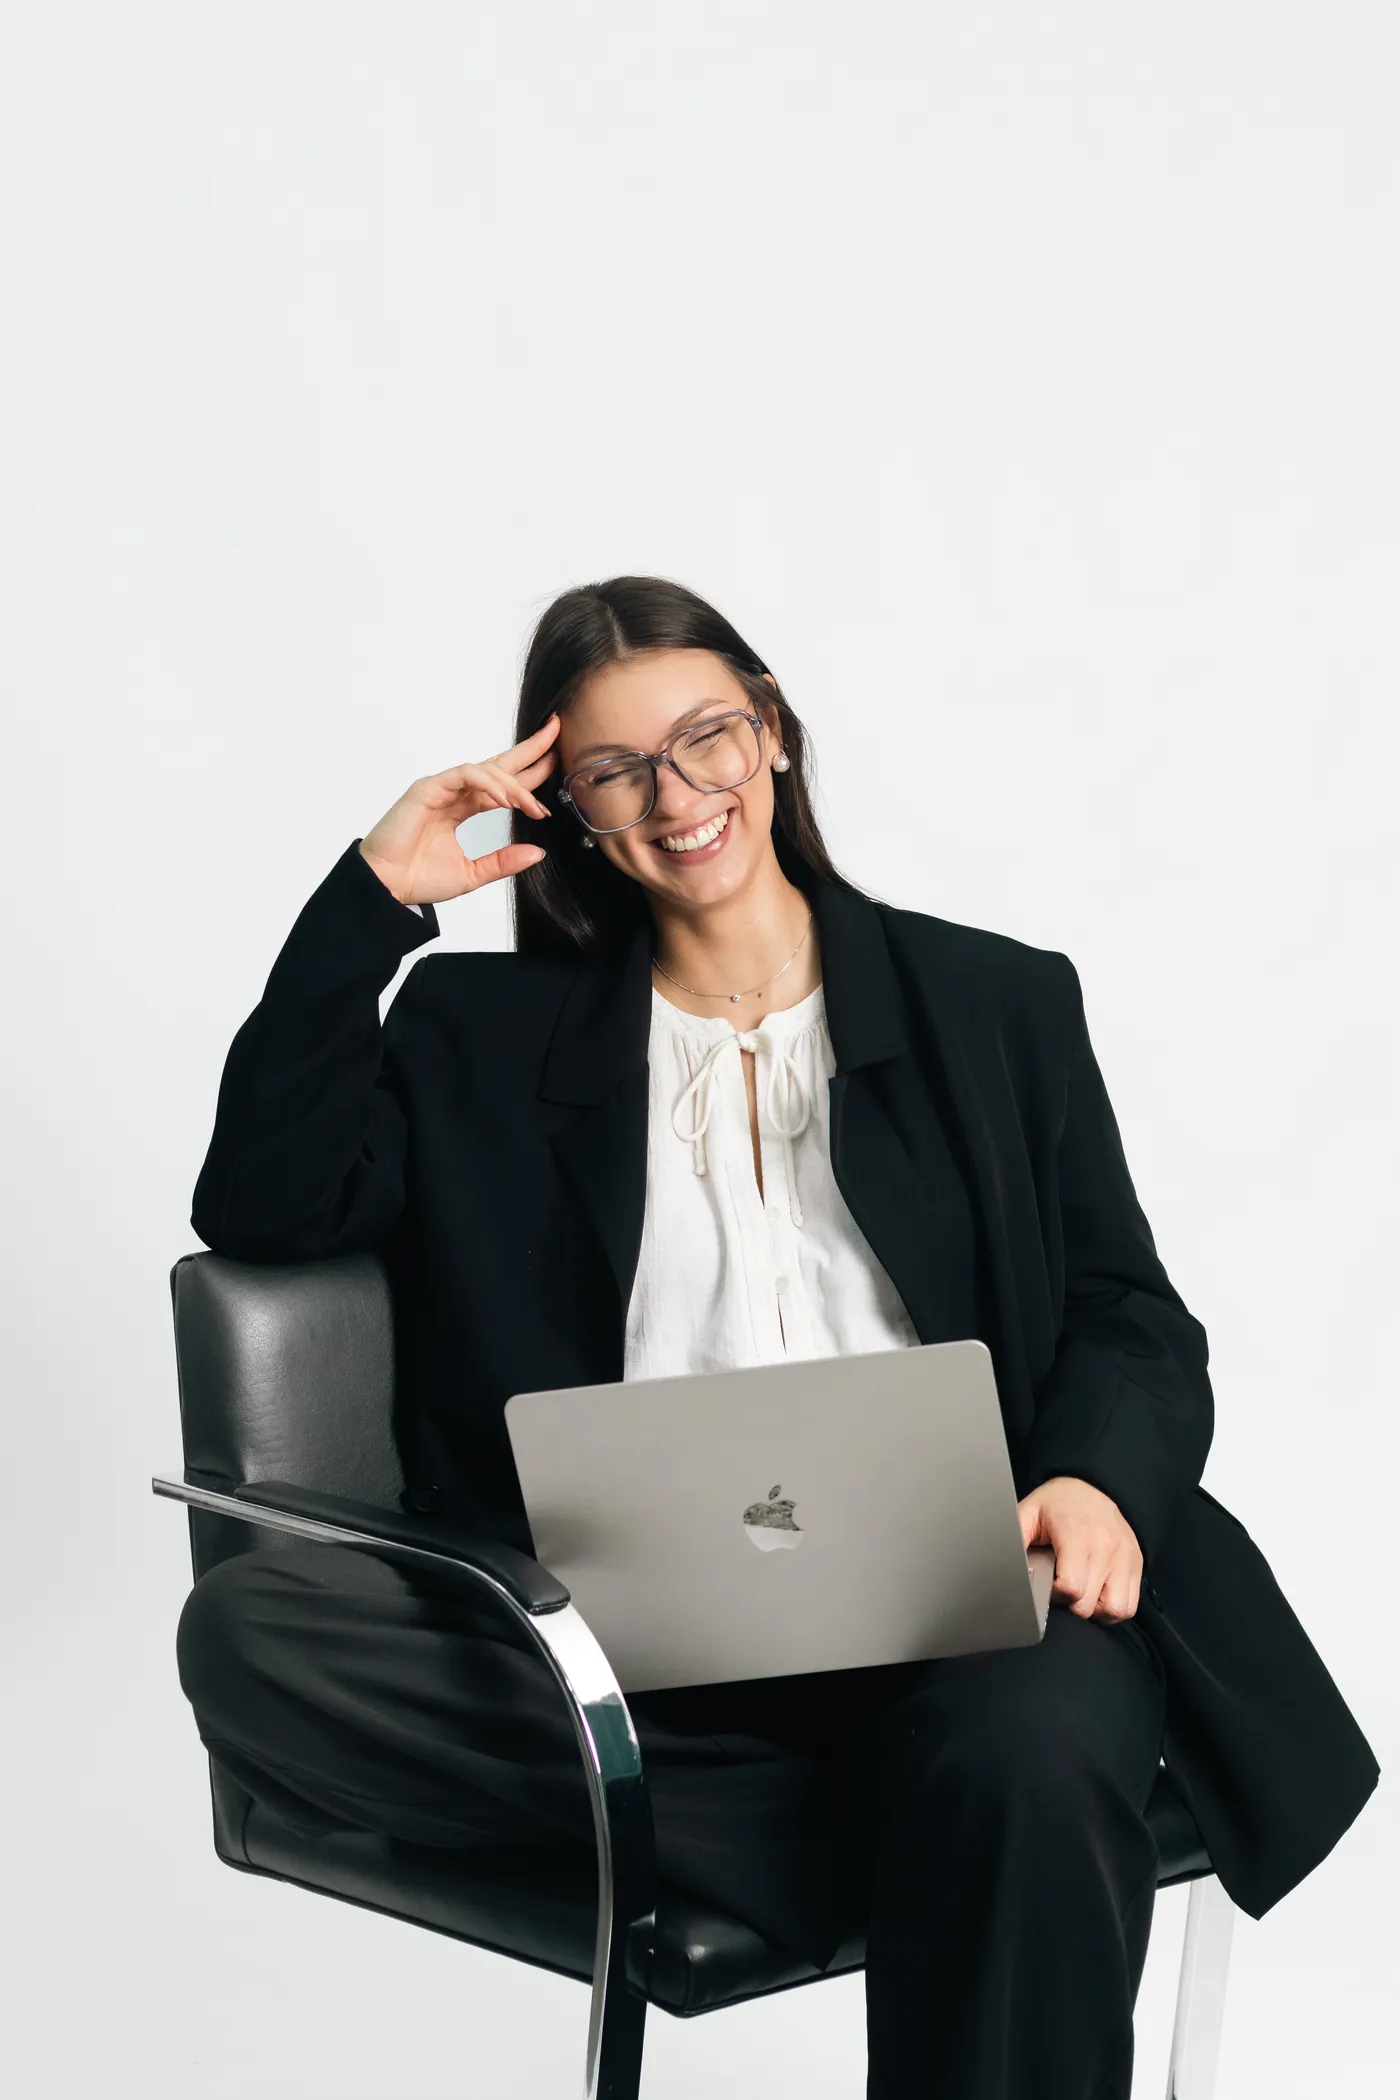
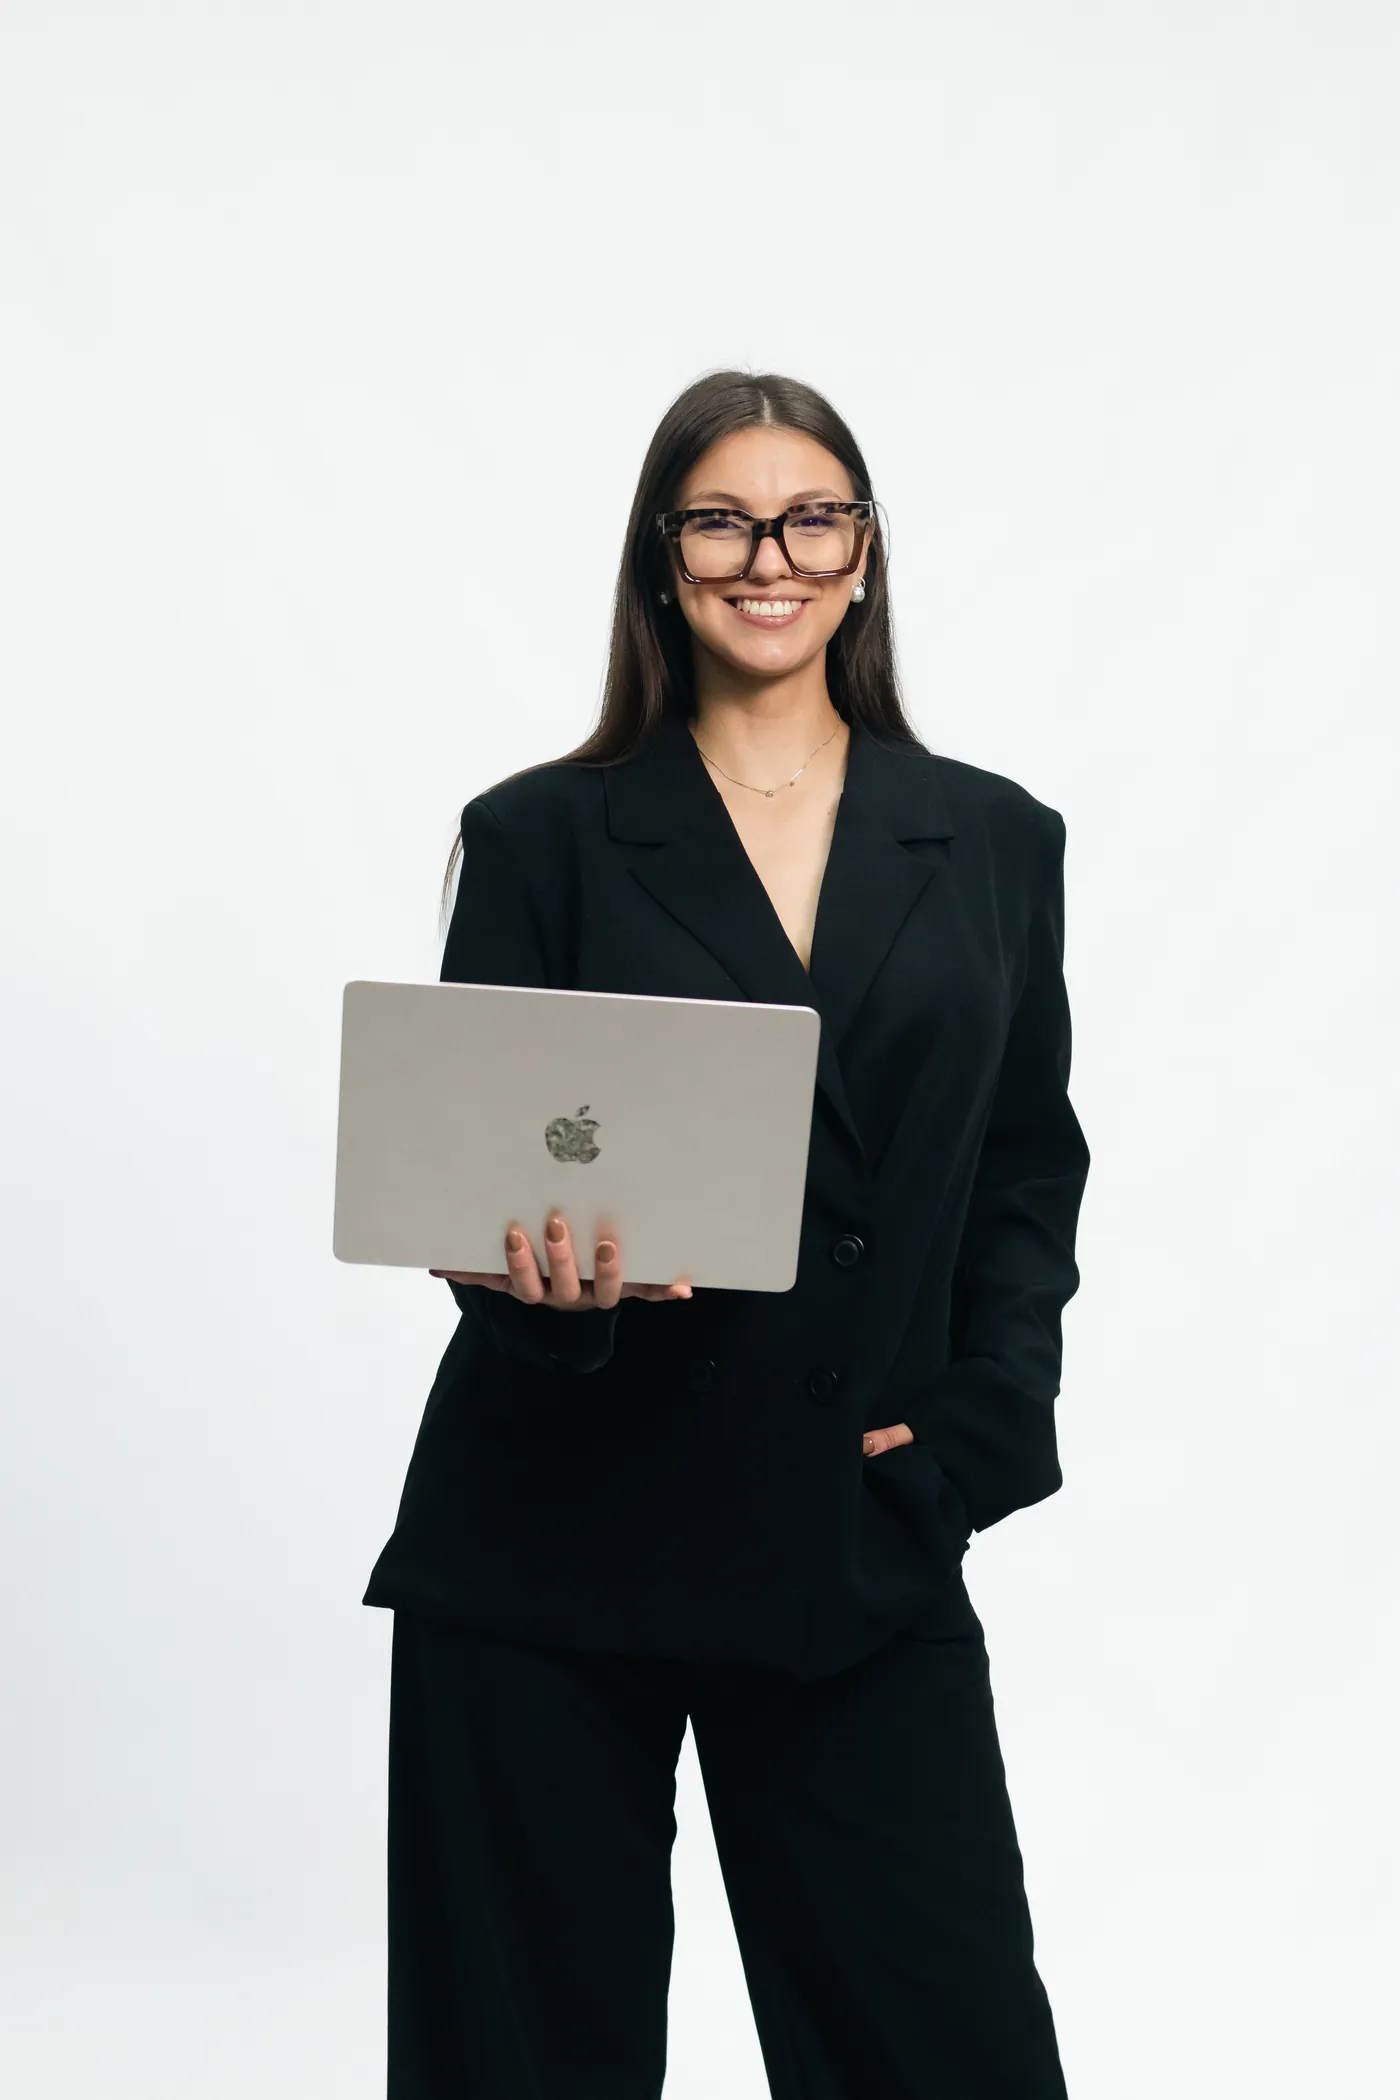
Cambiar foto de portada (IMG_0123) y de Sobre mí
Claude-Session: https://claude.ai/code/session_01H1hkXWsKTa2ZfsP3ztRjwc

diff --git a/index.html b/index.html
@@ -239,7 +239,7 @@ p{margin:0}
         </div>
       </div>
       <div class="hero-photo">
-        <div class="arch"><img src="img/hero.webp" alt="Paula Maggio sentada con su notebook, sonriendo" width="1400" height="2100" fetchpriority="high" style="object-position:50% 72%"></div>
+        <div class="arch"><img src="img/hero.webp" alt="Paula Maggio de pie con su notebook, sonriendo" width="1400" height="2100" fetchpriority="high" style="object-position:50% 40%"></div>
         <div class="badge" aria-hidden="true">
           <svg class="ring" viewBox="0 0 100 100"><defs><path id="circ" d="M50,50 m-38,0 a38,38 0 1,1 76,0 a38,38 0 1,1 -76,0"/></defs><text textLength="236" lengthAdjust="spacing"><textPath href="#circ" textLength="236" lengthAdjust="spacing">comunicación con sentido ✳ comunicación con sentido ✳</textPath></text></svg>
           <img src="img/brand/isotipo-bordo.png" alt="">
@@ -256,7 +256,7 @@ p{margin:0}
   <section class="about" id="sobre-mi">
     <div class="wrap about-grid">
       <div class="about-photos reveal">
-        <div class="arch"><img src="img/about.webp" alt="Paula registrando contenido con su celular durante un evento" width="1067" height="1600" loading="lazy"></div>
+        <div class="arch"><img src="img/about.webp" alt="Paula Maggio sentada con su notebook, sonriendo" width="1400" height="2100" loading="lazy" style="object-position:50% 75%"></div>
         <div class="inset"><img src="img/about2.webp" alt="Paula en backstage, en blanco y negro" width="1067" height="1600" loading="lazy"></div>
       </div>
       <div class="about-copy reveal">
